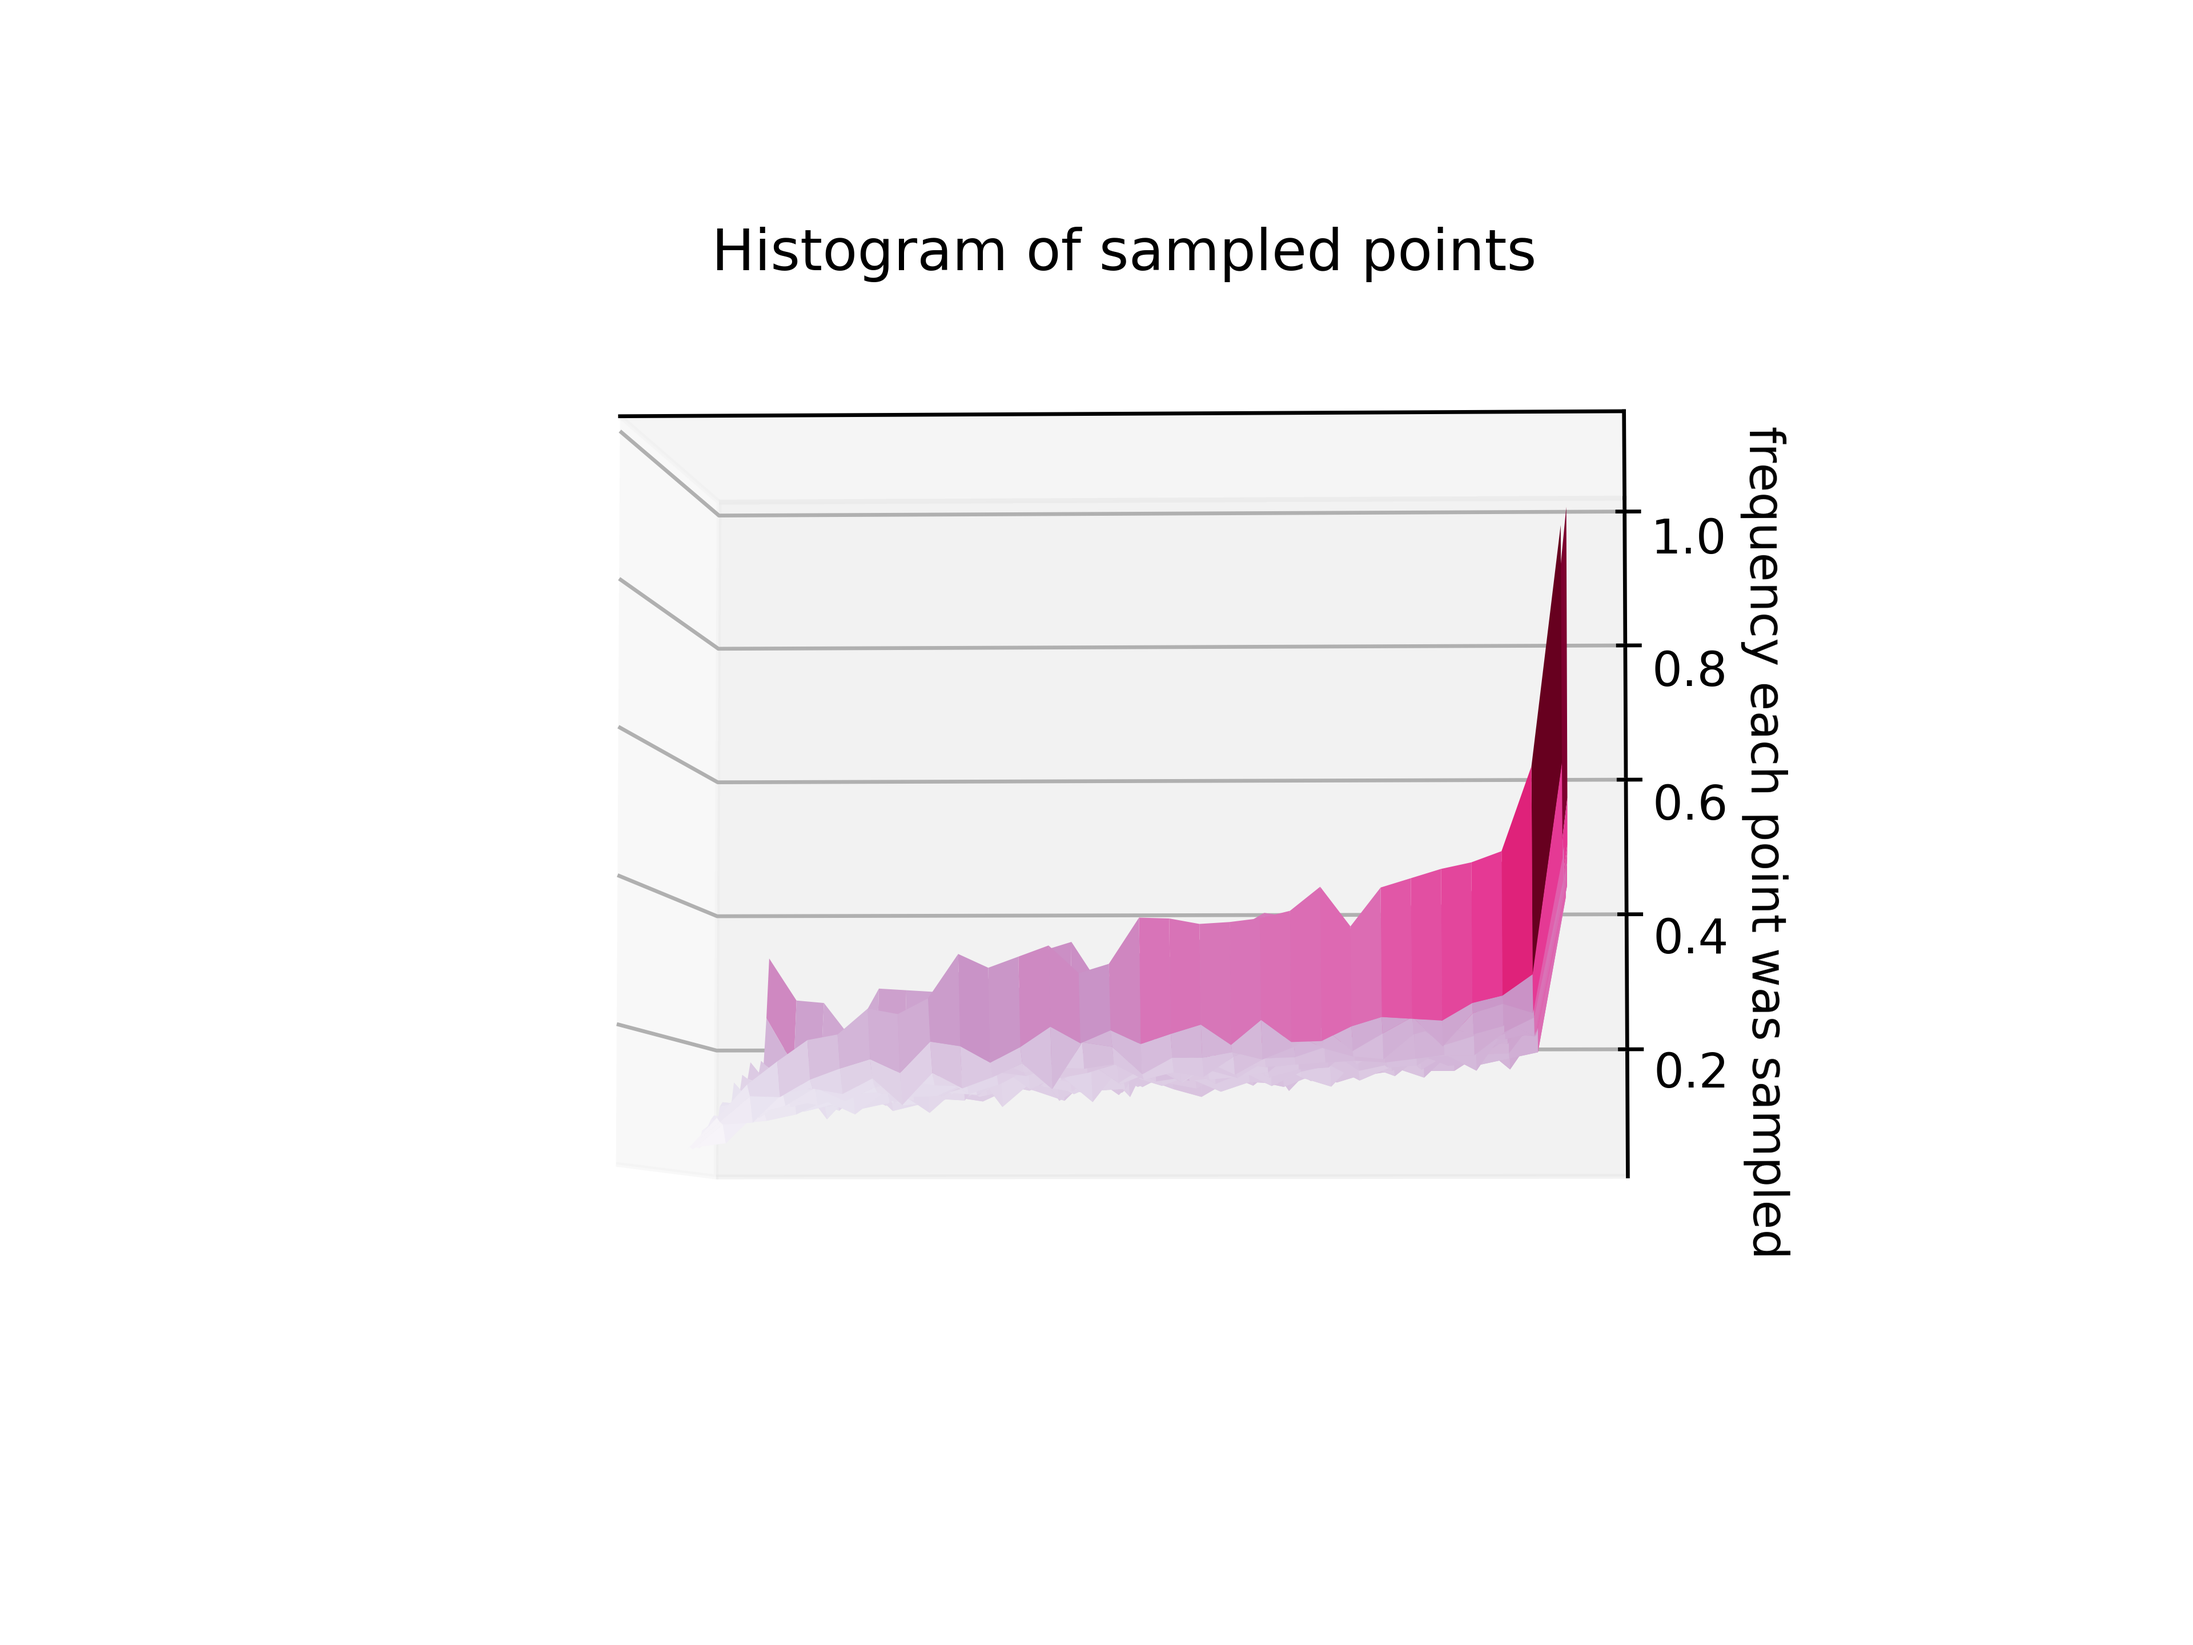
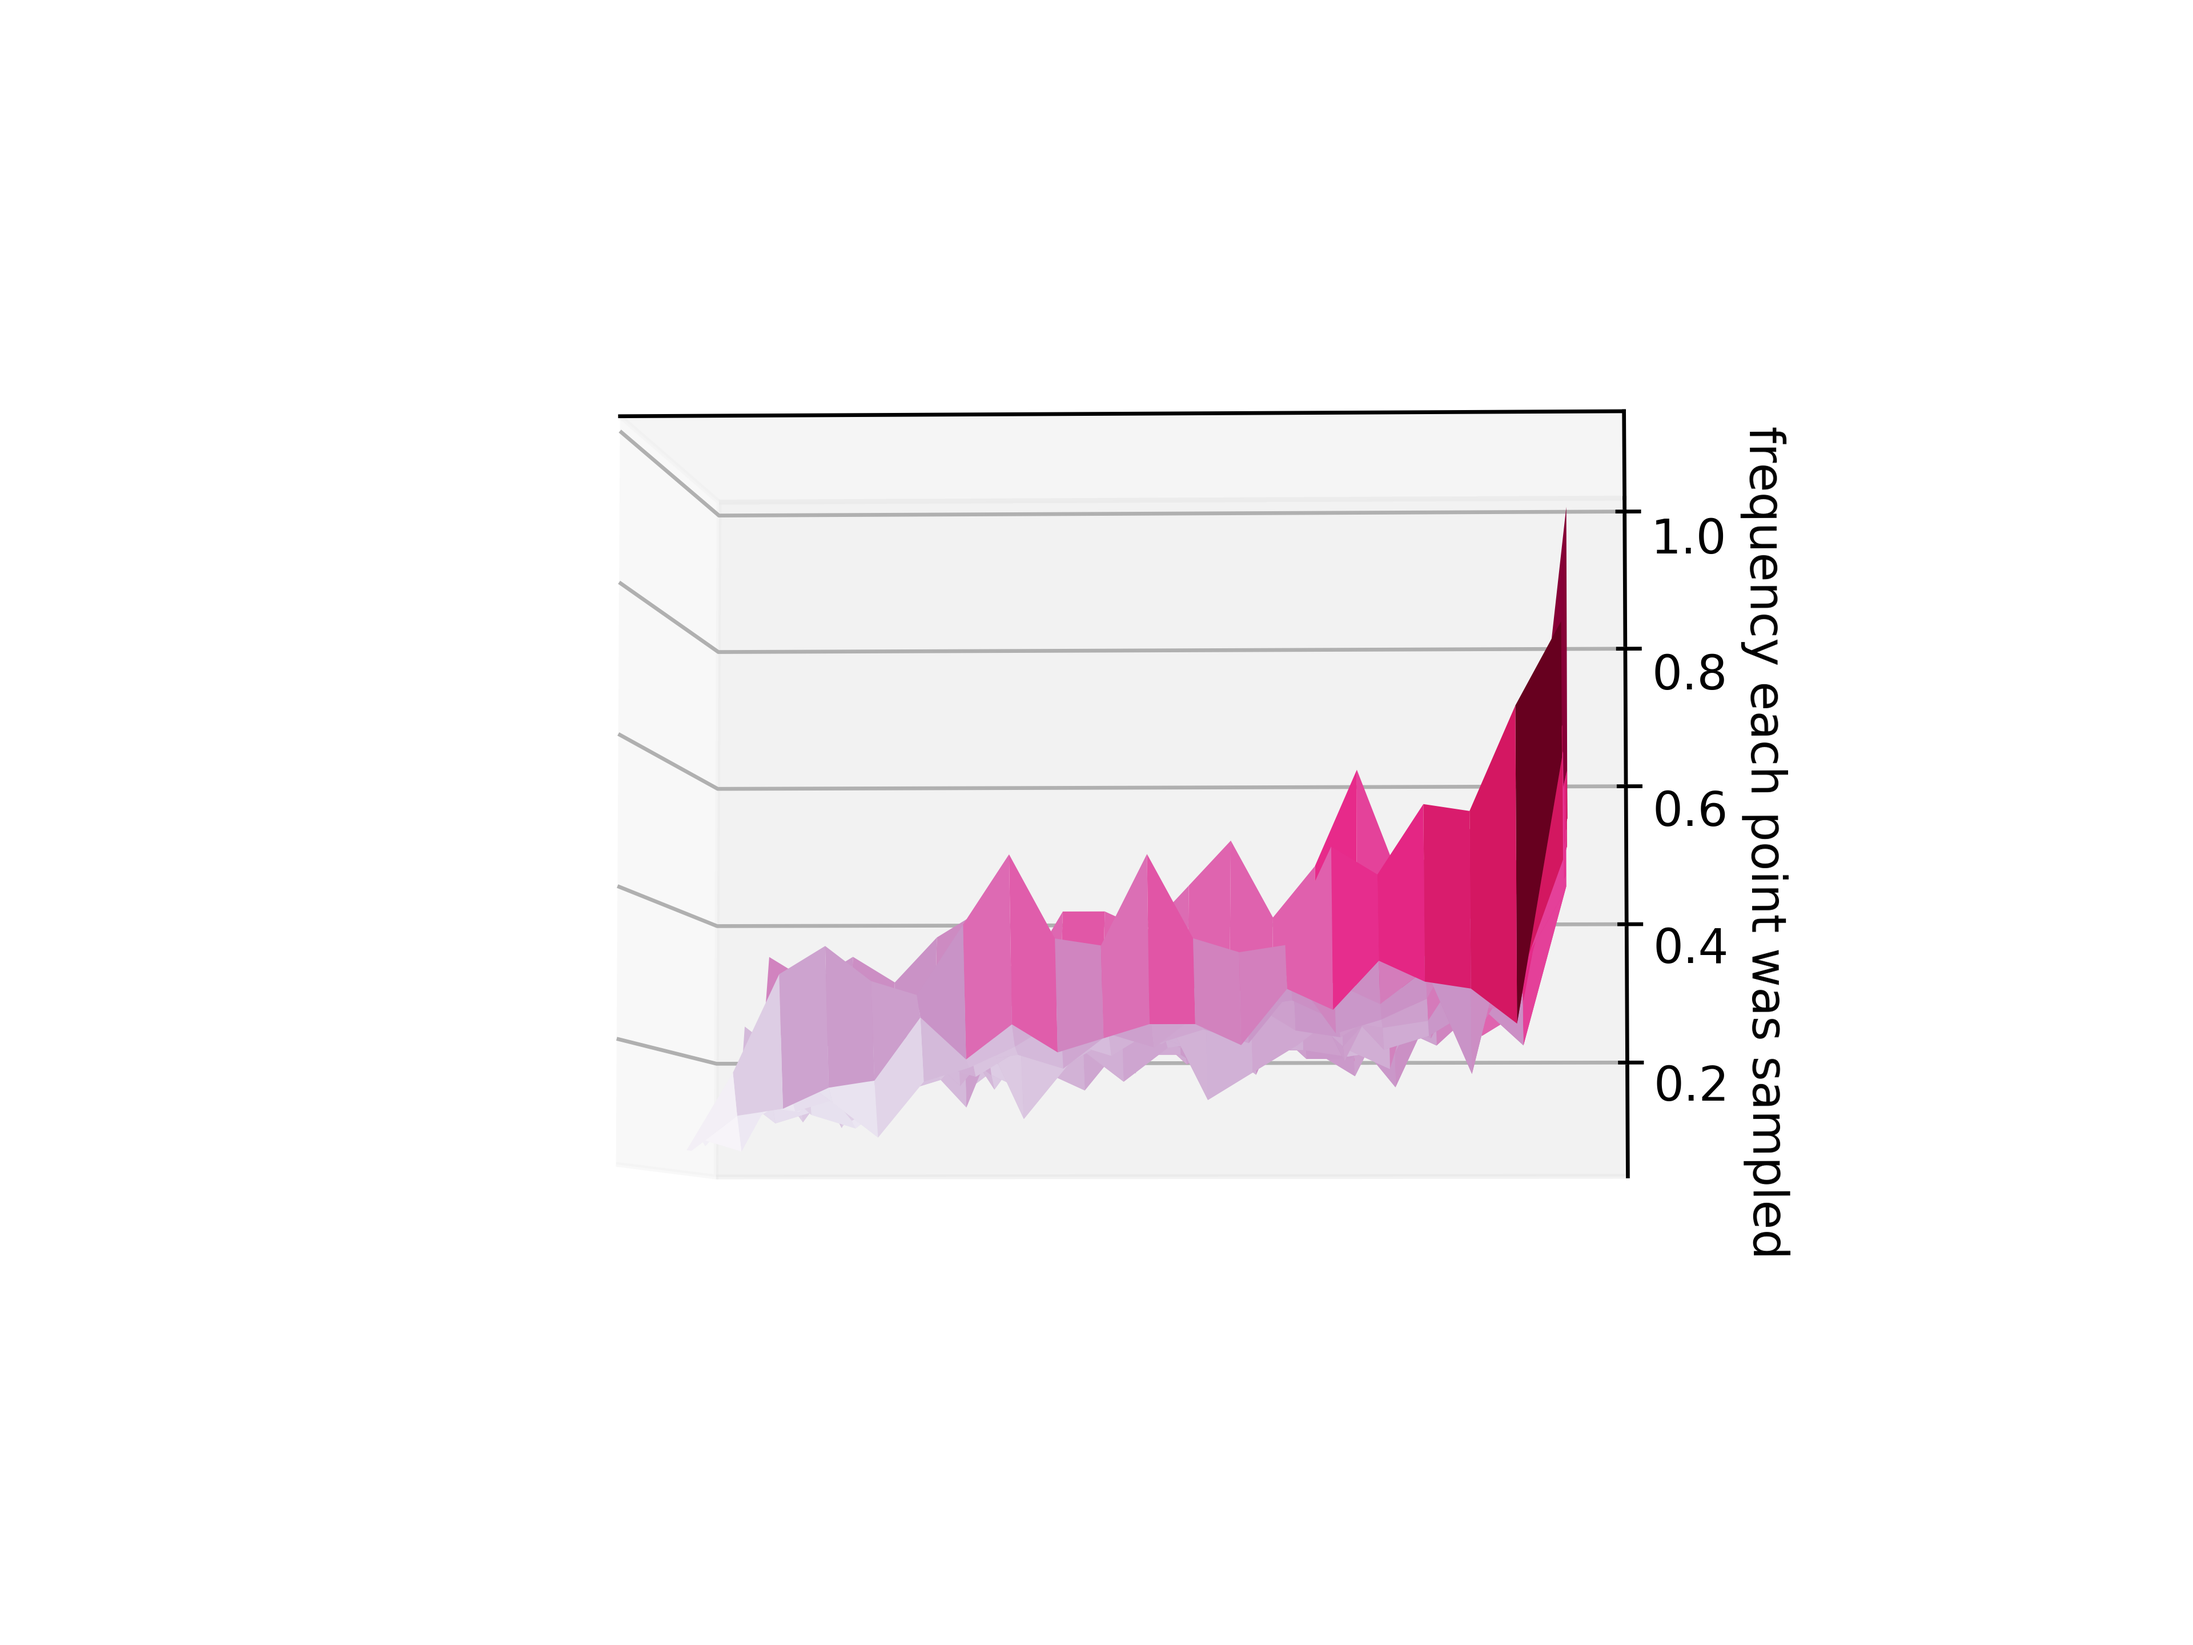
Gradient ascent added and plotting function

diff --git a/LearningDPPs/PlotLikelihood.py b/LearningDPPs/PlotLikelihood.py
@@ -9,7 +9,7 @@ import itertools, collections
 
 def plot_sample(filename, sample):
     plt.scatter(xf[sample],yf[sample],c='r',s=3)
-    plt.title('An example DPP sample with $\\theta$ = '+str(list(theta_true))+'$^\\top$')
+    # plt.title('An example DPP sample with $\\theta$ = '+str(list(theta_true))+'$^\\top$')
     plt.xlim([0, 1.02])
     plt.ylim([0, 1.02])
     plt.xticks([])
@@ -18,26 +18,34 @@ def plot_sample(filename, sample):
     plt.savefig('plots/'+filename, dpi=600)
     plt.show()
 
-def likelihood_heatmap(th1, th2, lkhd, filename, angle=0):
+def likelihood_heatmap(th1, th2, lkhd, filename, angle=0, vectors=None):
     ax = plt.axes(projection='3d')
-    ax.view_init(20, angle)
+    ax.view_init(30, angle)
 
-    #x==[[increasing], copies]
-    #y==[[const], increasing]
-    #xf == [0.05,0.05,...,0.05, 0.1,0.1,...,0.1, 0.15,...,0.15,...,1]
-    #yf == [0.05,0.1,0.15,...,1, 0.05,0.1,...1, 0.05,0.1,...,1, etc.]
-    
+    if vectors is not None:
+        x, y, z, dx, dy, dz = [np.array(v) for v in vectors]
+        z /= 10000
+        dz /= 10000
+        lengths = np.array([min(1, (20/i)**2) for i in range(1, len(x)+1)])
+        c = lengths/np.array(dx**2 + dy**2 + dz**2)
+        dx, dy, dz = c*dx, c*dy, c*dz
+        q = ax.quiver(x, y, z, dx, dy, dz, length=0.5, cmap='Reds', lw=1)
+        q.set_array(lengths)
+
+        lkhd /= 10000
+
     xv, yv = np.meshgrid(th1, th2)
+    ax.plot_surface(xv.T, yv.T, lkhd, cmap='viridis', alpha=0.4, edgecolor='none')
 
-    ax.plot_surface(xv.T, yv.T, lkhd, cmap='viridis', edgecolor='none')
-    ax.set_title('Likelihood over values of theta')
-    ax.set_zlabel('likelihood')
+    ax.set_zlabel('Likelihood (scaled)')
     ax.set_xlabel('$\\theta_{1}$')
     ax.set_ylabel('$\\theta_{2}$')
     ax.plot([theta_true[0]], [theta_true[1]], [np.max(lkhd)], 'r.')
     plt.savefig('plots/'+filename, dpi=600)
     plt.show()
     plt.clf()
+
+
 
 def plot_points_heatmap(Ys, filename, angle1=30, angle2=0):
     # keys are the elem of Y, values are their frequency
@@ -51,26 +59,35 @@ def plot_points_heatmap(Ys, filename, angle1=30, angle2=0):
     ax.view_init(angle1, angle2)
     
     ax.plot_surface(x, y, colours.reshape(n, n).T, cmap='PuRd', edgecolor='none')
-    ax.set_title('Histogram of sampled points')
+    # ax.set_title('Histogram of sampled points')
     ax.set_zlabel('frequency each point was sampled')
     plt.xticks([])
     plt.yticks([])
     plt.savefig('plots/'+filename, dpi=600)
     plt.show()
     
-
-n1, n2 = 20, 15
-th1, th2 = np.linspace(0.5, 7, n1), np.linspace(0.2, 1.5, n2)
+print('making likelihood meshgrid...')
+n1, n2 = 20, 20
+th1, th2 = np.linspace(0.5, 10, n1), np.linspace(0.2, 10, n2)
 
 likelihood = np.zeros((n1, n2))
 for i in range(n1):
 	for j in range(n2):
 		theta = np.array([th1[i], th2[j]])
 		likelihood[i][j] = Likelihood(samples, theta)
-likelihood -= np.min(likelihood)
+mn = np.min(likelihood)
+likelihood -= mn
 
-# plot
-likelihood_heatmap(th1, th2, likelihood, 'likelihood_theta', angle=-140)
+
+from GradientAscent import *
+
+values = []
+for (th, dth) in grad:
+   f1, f2 = Likelihood(samples, th), Likelihood(samples, th+dth)
+   values.append((th[0], th[1], f1-mn, dth[0], dth[1], f2-f1))
+vectors = tuple(zip(*values))
+likelihood_heatmap(th1, th2, likelihood, 'likelihood_theta', angle=150, vectors=vectors)
+
 
 plot_sample('sample', samples[0])
 

diff --git a/LearningDPPs/GradientAscent.py b/LearningDPPs/GradientAscent.py
@@ -1,0 +1,77 @@
+import sys
+sys.path.append('../')
+from DPP import DPP
+from scipy.linalg import eigh
+from tqdm import tqdm
+import numpy as np
+
+
+f = lambda i: np.array([ xf[i], yf[i] ])
+q = lambda i, theta: np.dot( f(i), theta )
+
+def L(theta):
+	qs = np.array([ q(i, theta) for i in baseY])
+	return np.multiply( K, np.outer( qs, qs ) )
+
+def L_At(At, theta):# L(At|theta)
+	qs = np.array([ q(i, theta) for i in At])
+	return np.multiply( K[np.ix_(At, At)], np.outer( qs, qs ) )
+
+def dL_dtheta_l(l, theta):
+    ''' The gradient of L with repect to the l^th parameter in theta '''
+    fs = np.array([ f(i)[l] for i in baseY])
+    qs = np.array([ q(i, theta) for i in baseY])
+    fq = np.outer( fs, qs )
+    return np.multiply( K, fq+fq.T )
+
+def dL_At_dtheta_l(At, l, theta):
+    ''' The gradient of L_At with repect to the l^th parameter in theta '''
+    fs = np.array([ f(i)[l] for i in At])
+    qs = np.array([ q(i, theta) for i in At])
+    fq = np.outer( fs, qs )
+    return np.multiply( K[np.ix_(At, At)], fq+fq.T )
+
+def dLikelihood_dtheta_l(theta, A, l):
+    ''' Gradient of the likelihood wrt theta_l'''
+    term1 = np.sum([np.trace(np.dot(np.linalg.inv(L_At(At, theta)), dL_At_dtheta_l(At, l, theta))) for At in A])
+    term2 = len(A)*np.trace(np.dot(np.linalg.inv(L(theta)+np.eye(N)), dL_dtheta_l(l, theta)))
+    return term1-term2
+
+def dLhd_dtheta(theta, A):
+    ''' Gradient of the likelihood wrt theta, 'A' is an array of samples '''
+    return np.array([dLikelihood_dtheta_l(theta, A, l) for l in range(len(theta))])
+
+def gradientAscent(theta, A, m, batch_size=10, decay_start=20, alpha_0 = 1):
+    grad = []
+    for t in range(1, m+1):
+        alpha = alpha_0 * min(1, (decay_start/t)**2)
+        As = A[np.random.randint(0, len(A), batch_size)]
+        dth = dLhd_dtheta(theta, As)
+        dth /= np.linalg.norm(dth)
+        theta += alpha * dth
+        grad.append((theta.copy(), dth.copy()))
+        print((theta, t, alpha))
+    return theta, grad
+
+
+n, sigma = 20, 0.2
+N = n*n
+x, y = np.meshgrid(np.linspace(1/n, 1, n), np.linspace(1/n, 1, n))
+xf, yf = x.flatten('F'), y.flatten('F')
+baseY = list(range(N))
+
+stack_xf, stack_yf = np.array([xf,]*N), np.array([yf,]*N)
+M = np.square( (stack_xf.T - stack_xf) ) + np.square( (stack_yf.T - stack_yf) )
+K = np.exp(-M/sigma**2)
+
+
+
+theta_true, T = np.array([4.1, 0.76]), 200
+dpp = DPP( *eigh( L(theta_true) ) )
+print('...generating samples')
+samples = [dpp.sample() for _ in tqdm(range(T))]
+
+
+theta = np.array([10.,10.])
+theta, grad = gradientAscent(theta, np.array(samples), 100)
+
